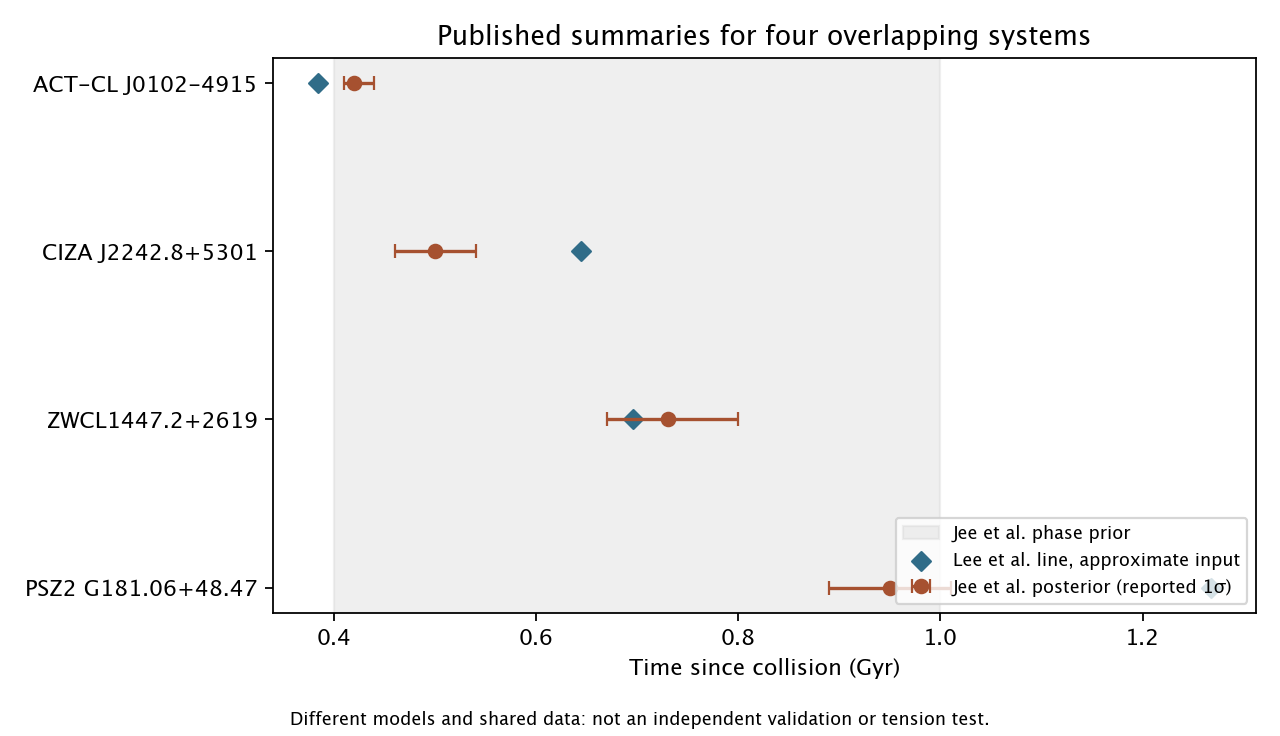
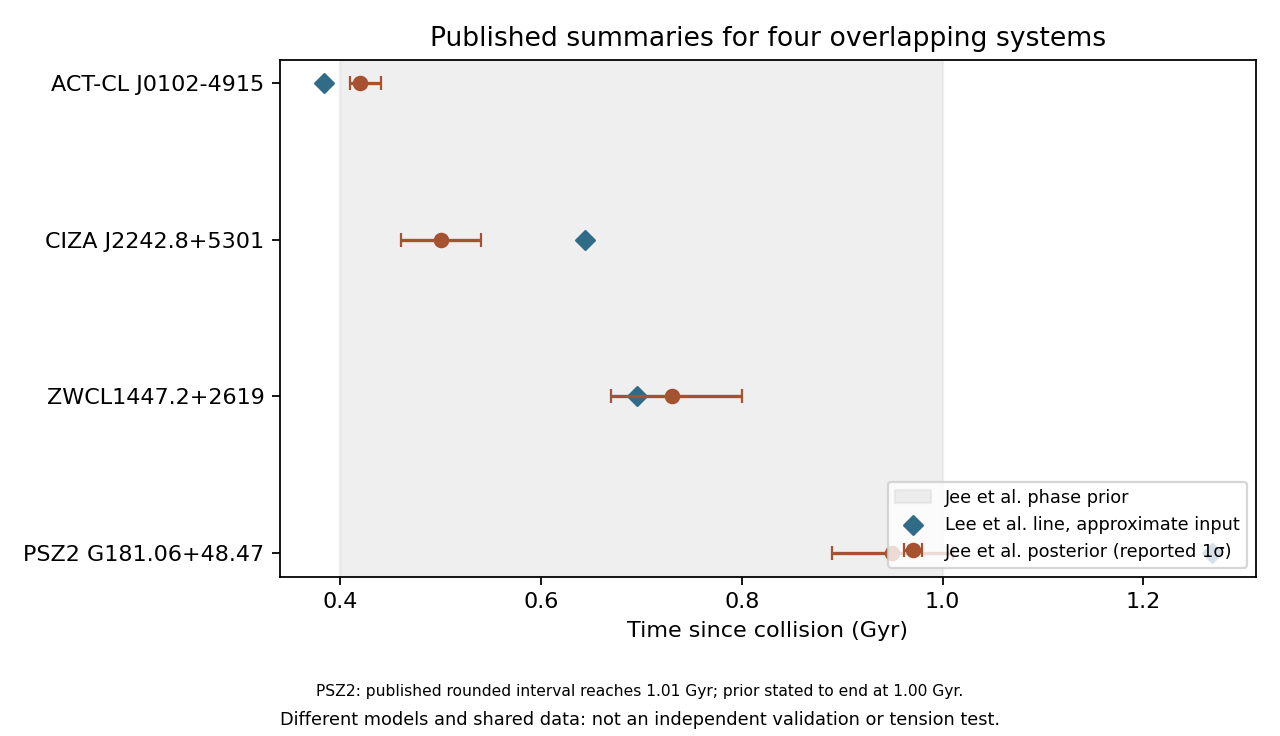
Flag reported merger phase boundary ambiguity

diff --git a/research/clock-crosspaper/analyze.py b/research/clock-crosspaper/analyze.py
@@ -12,11 +12,13 @@ if len(rows)!=4 or len({r['cluster'] for r in rows})!=4: raise ValueError('Expec
 for r in rows:
     x=float(r['normalized_separation_approx'])
     if not 1 <= x <= 3.5: raise ValueError('Outside Lee et al. stated fit range')
+    r['jee_reported_upper_endpoint_gyr']=float(r['jee_phase_median_gyr'])+float(r['jee_phase_upper_gyr'])
+    r['jee_reported_endpoint_above_stated_prior']=r['jee_reported_upper_endpoint_gyr'] > 1.0 + 1e-9
     r['lee_linear_central_gyr']=0.52*x-0.24
     r['lee_minus_jee_gyr']=r['lee_linear_central_gyr']-float(r['jee_phase_median_gyr'])
     r['illustrative_15pct_separation_increase_shift_gyr']=0.52*x*0.15
 with (p/'comparison.csv').open('w',newline='') as f:
-    w=csv.DictWriter(f,fieldnames=list(rows[0]));w.writeheader();w.writerows(rows)
+    w=csv.DictWriter(f,fieldnames=list(rows[0]),lineterminator='\n');w.writeheader();w.writerows(rows)
 fig,ax=plt.subplots(figsize=(8,4.6))
 y=list(range(len(rows)))
 ax.axvspan(0.4,1.0,color='lightgray',alpha=.35,label='Jee et al. phase prior')
@@ -24,7 +26,8 @@ ax.errorbar([float(r['jee_phase_median_gyr']) for r in rows],y,xerr=[[float(r['j
 ax.scatter([r['lee_linear_central_gyr'] for r in rows],y,marker='D',color='#306c88',label='Lee et al. line, approximate input')
 ax.set_yticks(y, [r['cluster'] for r in rows]);ax.invert_yaxis();ax.set_xlabel('Time since collision (Gyr)');ax.set_title('Published summaries for four overlapping systems')
 ax.legend(loc='lower right',fontsize=8);fig.text(.5,.015,'Different models and shared data: not an independent validation or tension test.',ha='center',fontsize=8)
-fig.tight_layout(rect=(0,.04,1,1));fig.savefig(p/'published-clock-comparison.png',dpi=160);plt.close(fig)
-summary={'input_sha256':hashlib.sha256(raw.read_bytes()).hexdigest(),'systems':len(rows),'lee_minus_jee_gyr':[round(r['lee_minus_jee_gyr'],3) for r in rows],'notes':'Approximate inputs; model comparison only, shared data and distinct uncertainties; no significance test.'}
+fig.text(.5,.055,'PSZ2: published rounded interval reaches 1.01 Gyr; prior stated to end at 1.00 Gyr.',ha='center',fontsize=7)
+fig.tight_layout(rect=(0,.09,1,1));fig.savefig(p/'published-clock-comparison.png',dpi=160);plt.close(fig)
+summary={'input_sha256':hashlib.sha256(raw.read_bytes()).hexdigest(),'systems':len(rows),'reported_intervals_above_stated_prior':[{'cluster':r['cluster'],'reported_upper_endpoint_gyr':round(r['jee_reported_upper_endpoint_gyr'],2)} for r in rows if r['jee_reported_endpoint_above_stated_prior']],'lee_minus_jee_gyr':[round(r['lee_minus_jee_gyr'],3) for r in rows],'notes':'Approximate inputs; model comparison only, shared data and distinct uncertainties; no significance test.'}
 (p/'summary.json').write_text(json.dumps(summary,indent=2)+'\n')
 print(json.dumps(summary,indent=2))

diff --git a/research/clock-crosspaper/README.md b/research/clock-crosspaper/README.md
@@ -11,6 +11,8 @@ This is a descriptive comparison of published numbers, not an independent valida
 | ZWCL1447.2+2619 | 1.8 | 0.70 | 0.73 |
 | PSZ2 G181.06+48.47 | 2.9 | 1.27 | 0.95 |
 
+Jee et al. state a fiducial phase prior of 0.4–1.0 Gyr, but their Table 3 gives PSZ2 as 0.95 +0.06/−0.06 Gyr: the reported upper endpoint is 1.01 Gyr, 0.01 Gyr above the stated boundary. We preserve the source values and flag this unresolved reporting ambiguity; the underlying samples and exact reporting procedure are needed to resolve it. We do not assume the cause or clip the published interval.
+
 The last line-derived value is outside the Jee analysis's stated fiducial phase prior; this does **not** show a contradiction. Ratios are approximate; masses, radii, relic definitions, selection, projection, calibration scatter and assumptions may differ. Lee et al. report scatter that increases with normalized separation (around 0.3 Gyr at larger separations), whereas the displayed Jee intervals are conditional posterior summaries. They are not comparable as independent error bars. We have not independently confirmed identical underlying mass estimates or transformed the two models into a common likelihood. The four systems are not a representative sample and were chosen by overlap, not by a prespecified statistical design.
 
 For PSZ2 G181.06+48.47, the [LoTSS DR2 catalog](https://vizier.cfa.harvard.edu/viz-bin/VizieR-3?-source=J%2FA%2BA%2F660%2FA78%2Frrsamp) gives 2694 ± 39 kpc for the N/S relic pair, repeated on two rows. [Botteon et al. 2022](https://arxiv.org/abs/2202.11720) define their relic coordinates using flux-weighted positions of the brightest 10% of pixels; [Jee et al. Table 2](https://arxiv.org/html/2605.00093) gives 2.70 ± 0.02 Mpc for shock separation. Central values agree to 6 kpc, but similar values do not prove matching extraction methods or independent uncertainty. Lee et al. explicitly discuss differences between projected shock edges and 3D emissivity-weighted centers, finding roughly 15% larger projected edge separations in their considered examples. Do not apply 15% as an established per-system correction. Our CSV reports the purely algebraic shift in the Lee line if its input were increased 15%, to illustrate sensitivity, not to infer a corrected age.
